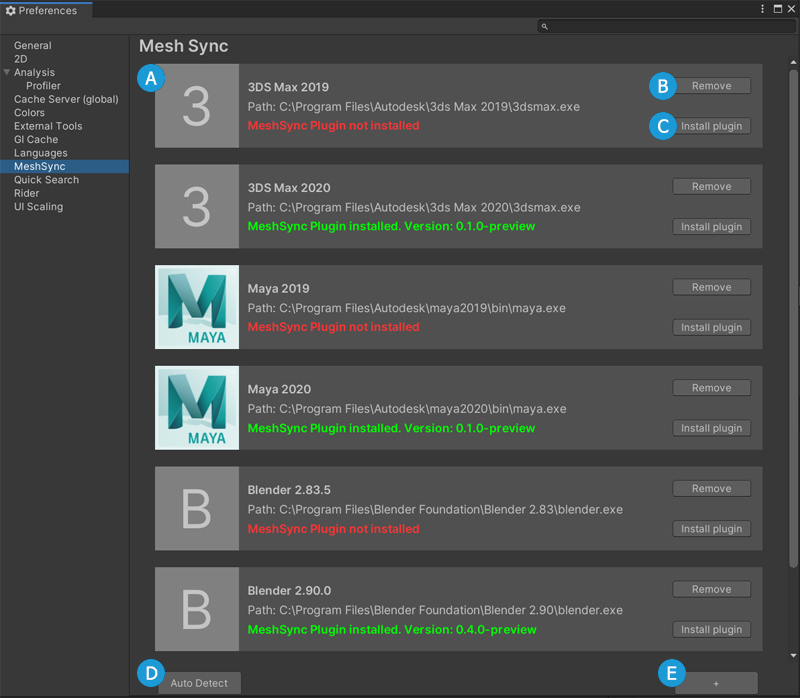
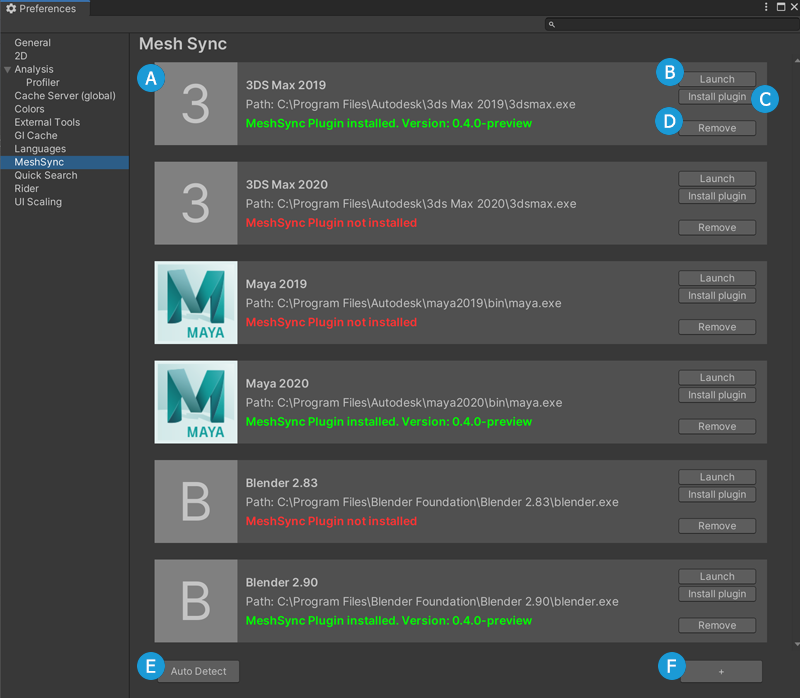
doc: update Preferences doc (#280)
* Update preferences.png image
* Update preferences doc (English/Japanese)

diff --git a/Documentation~/jp/Preferences.md b/Documentation~/jp/Preferences.md
@@ -12,10 +12,11 @@
 | 記号    | 用途                                                                                       | 
 | ------- | ----------------------------------------------------------------------------------------- | 
 | A       | DCC ツールの名前、パス、とその MeshSyncDCCPlugins のインストール状況を表示する                 |   
-| B       | ウィンドウから DCC ツールを削除する                                                          |   
+| B       | DCC ツールを起動する                                                                       |   
 | C       | DCC ツール に MeshSyncDCCPlugins をインストールする                                         |  
-| D       | デフォルトパスにインストールされた DCC ツールを検出し、タブに表示する                           |  
-| E       | 手動で DCC ツールを追加する                                                                 | 
+| D       | ウィンドウから DCC ツールを削除する                                                          |   
+| E       | デフォルトパスにインストールされた DCC ツールを検出し、タブに表示する                           |  
+| F       | 手動で DCC ツールを追加する                                                                 | 
 
 ### サポートされている DCC ツール
 

diff --git a/Documentation~/en/Preferences.md b/Documentation~/en/Preferences.md
@@ -13,10 +13,11 @@ display them inside the window.
 | Legend  | Use                                                                                       | 
 | ------- | ----------------------------------------------------------------------------------------- | 
 | A       | Display the name of the DCC tool, its path, and its MeshSyncDCCPlugins installation status|   
-| B       | Remove the DCC tool from the window                                                       |   
+| B       | Launch the DCC tool                                                                       |   
 | C       | Install MeshSyncDCCPlugins in the DCC tool                                                |  
-| D       | Detect and add DCC tools which have been installed in their default locations             |  
-| E       | Add a DCC tool manually                                                                   | 
+| D       | Remove the DCC tool from the window                                                       |   
+| E       | Detect and add DCC tools which have been installed in their default locations             |  
+| F       | Add a DCC tool manually                                                                   | 
 
 ### Supported DCC Tools
 
